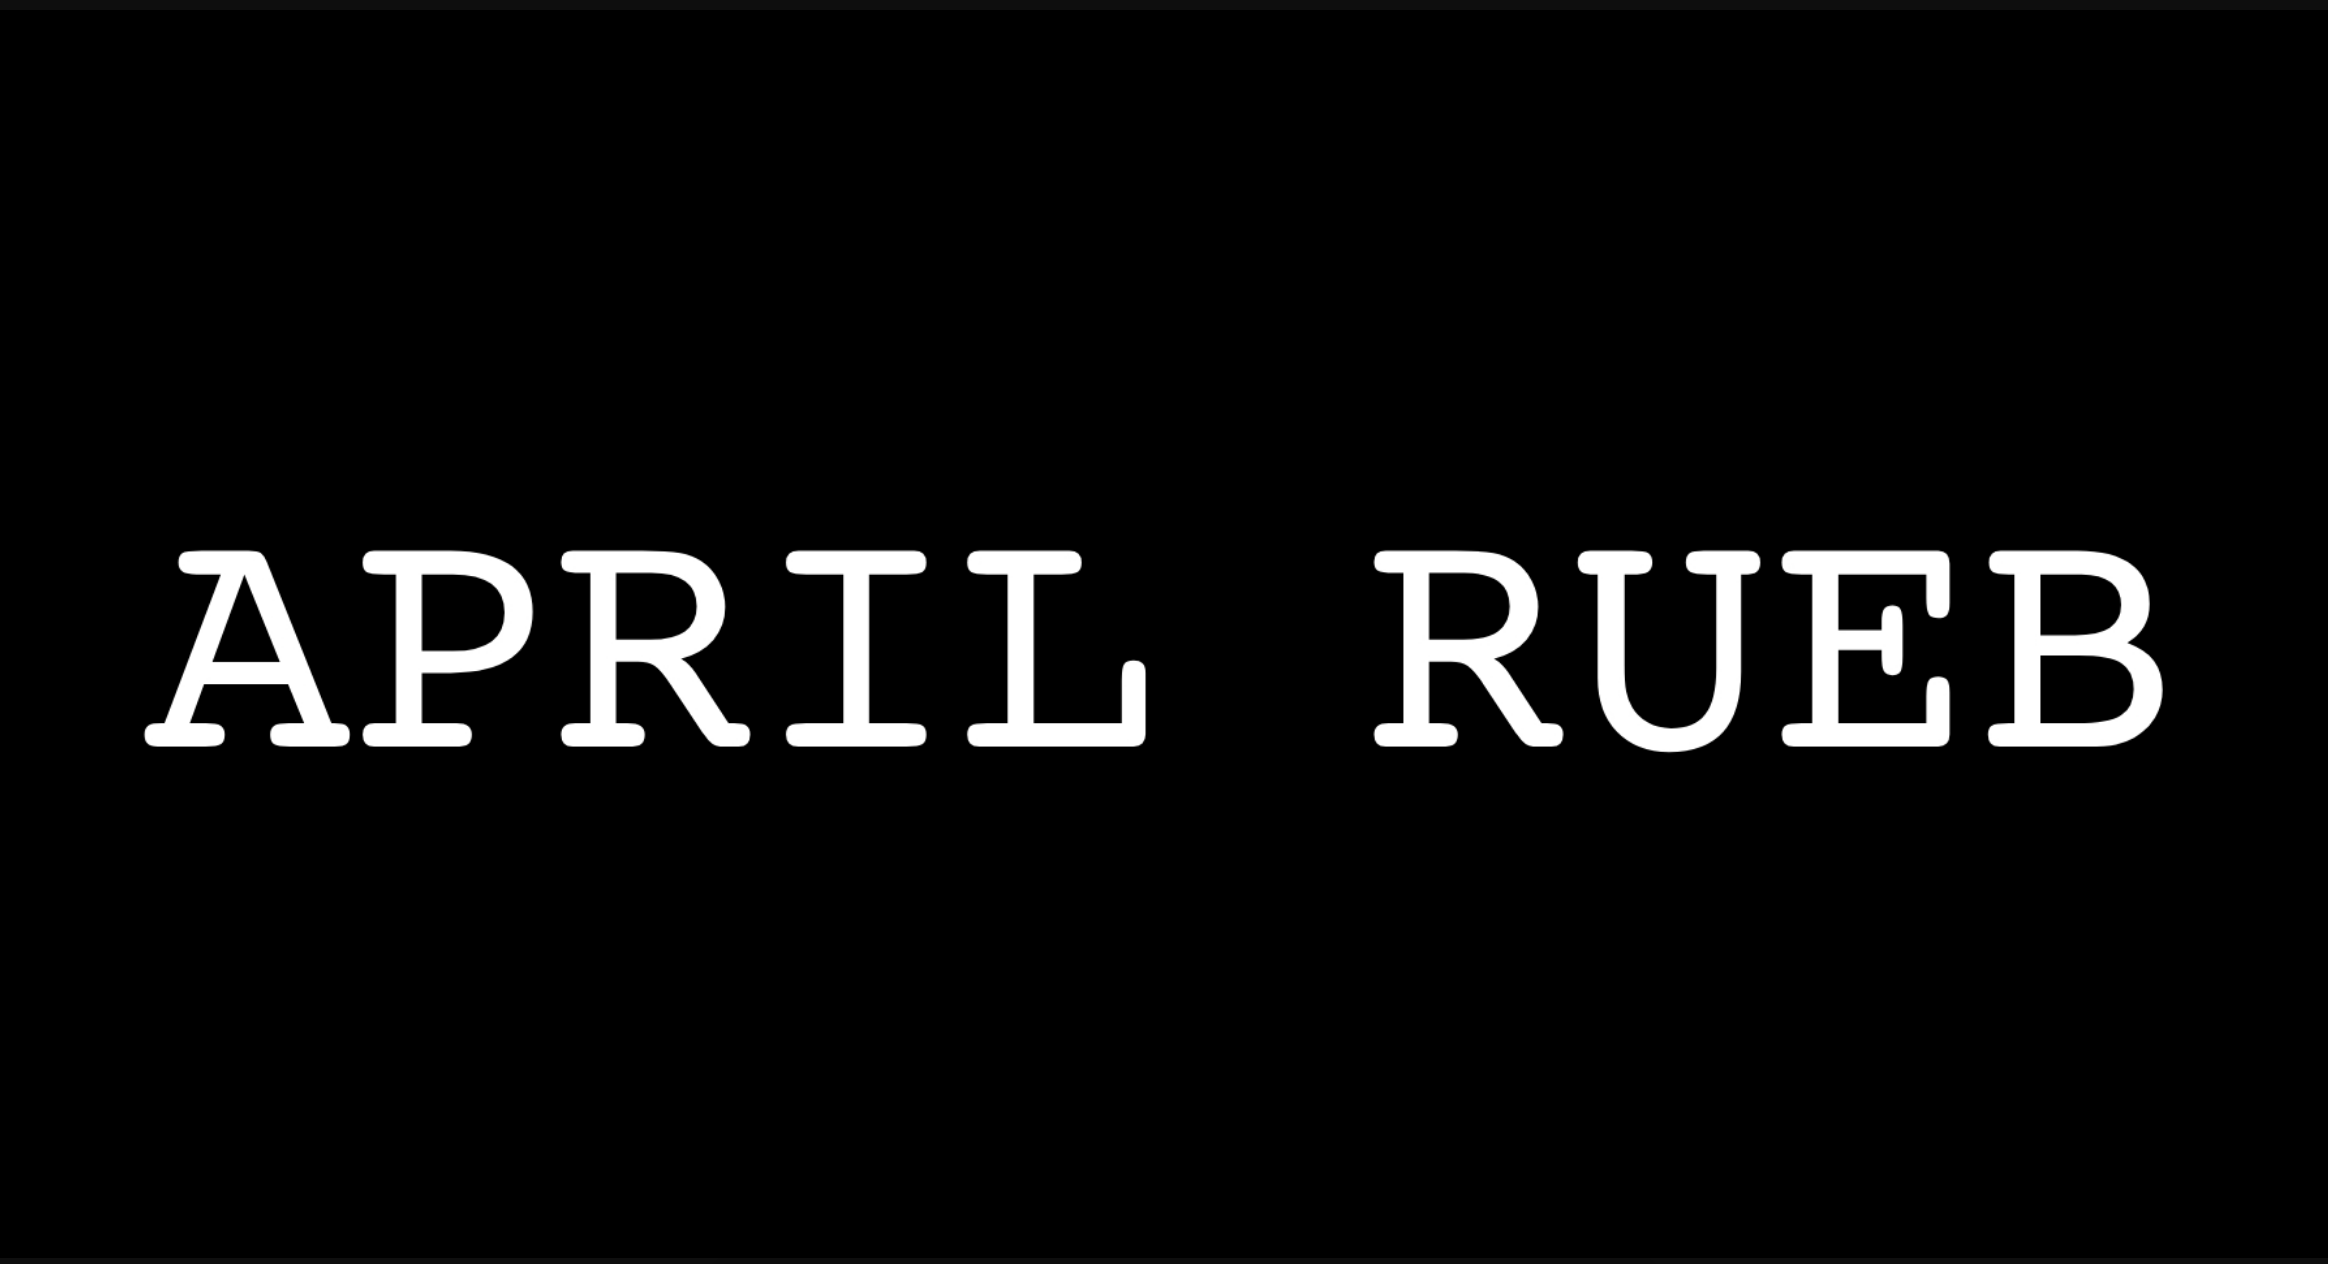
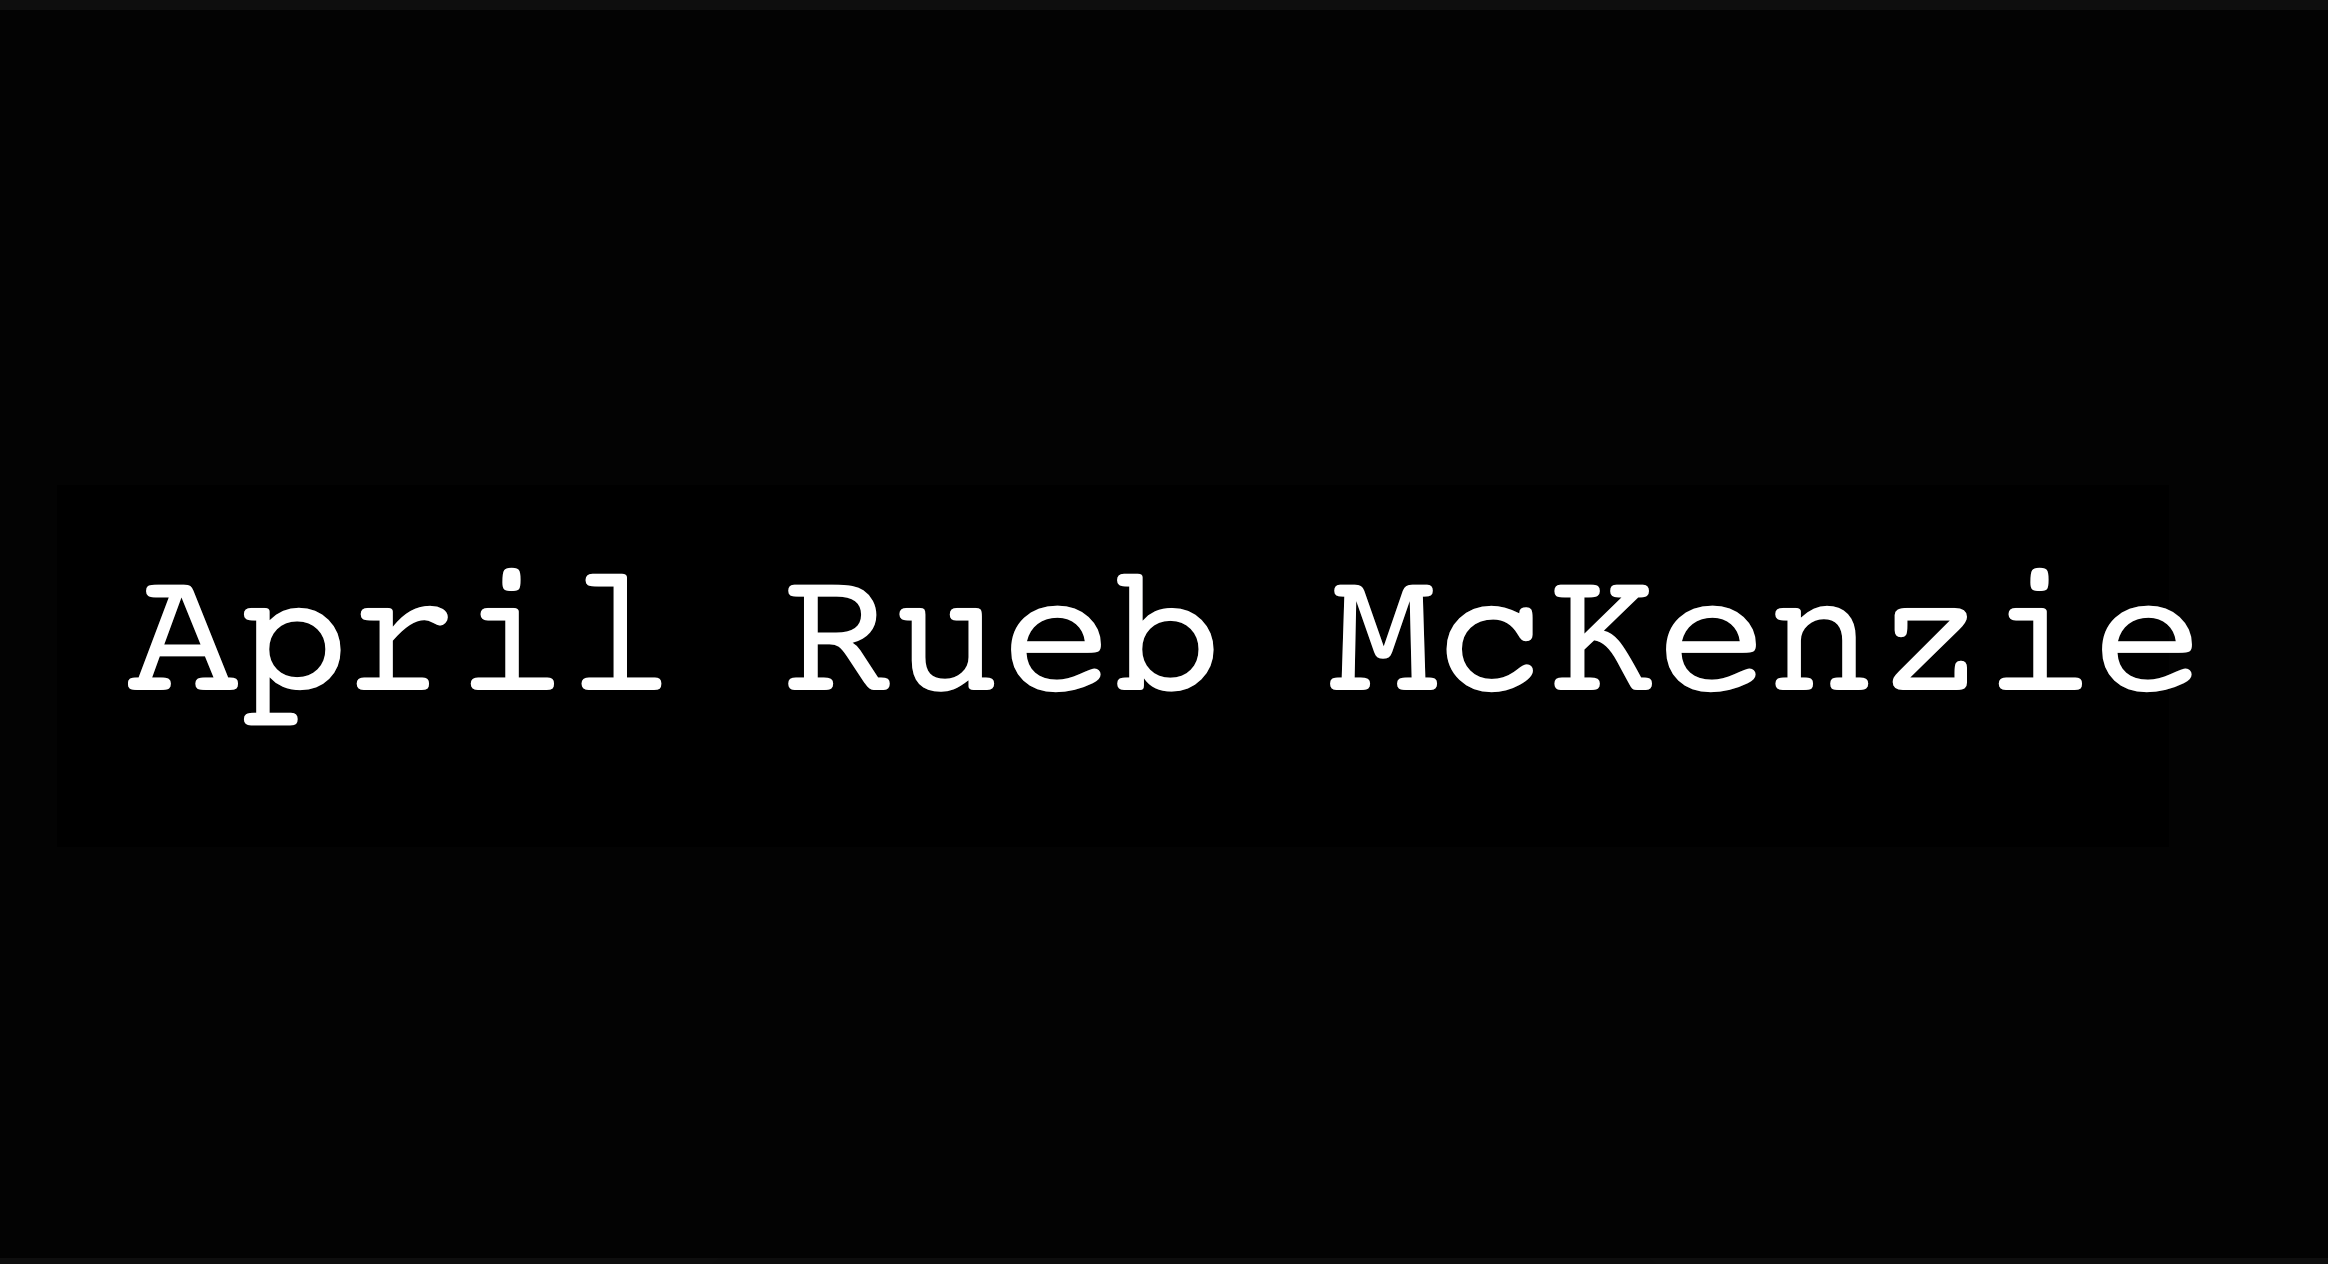
McKenzie

Changed region(s): [[0.0619, 0.432, 0.5258, 0.6171], [0.5567, 0.432, 0.9588, 0.6171]]

diff --git a/public/index.html b/public/index.html
@@ -15,13 +15,13 @@
     <meta name="twitter:creator" content="@aprilrueb" />
     <meta property="og:url" content="http://aprilrueb.com/" />
     <meta property="og:type" content="website" />
-    <meta property="og:title" content="April Rueb" />
+    <meta property="og:title" content="April Rueb McKenzie" />
     <meta property="og:description" content="Journalist and professional social media addict turned software engineer." />
     <meta property="og:image" content="http://aprilrueb.com/social.png" />
-    <meta property="og:image:alt" content="The words 'April Rueb' in white font on a black background." />
+    <meta property="og:image:alt" content="The words 'April Rueb McKenzie' in white font on a black background." />
     <link rel="manifest" href="http://aprilrueb.com/manifest.json">
     <link rel="shortcut icon" href="http://aprilrueb.com/favicon.ico">
-    <title>April Rueb</title>
+    <title>April Rueb McKenzie</title>
   </head>
   <body>
     <noscript>
